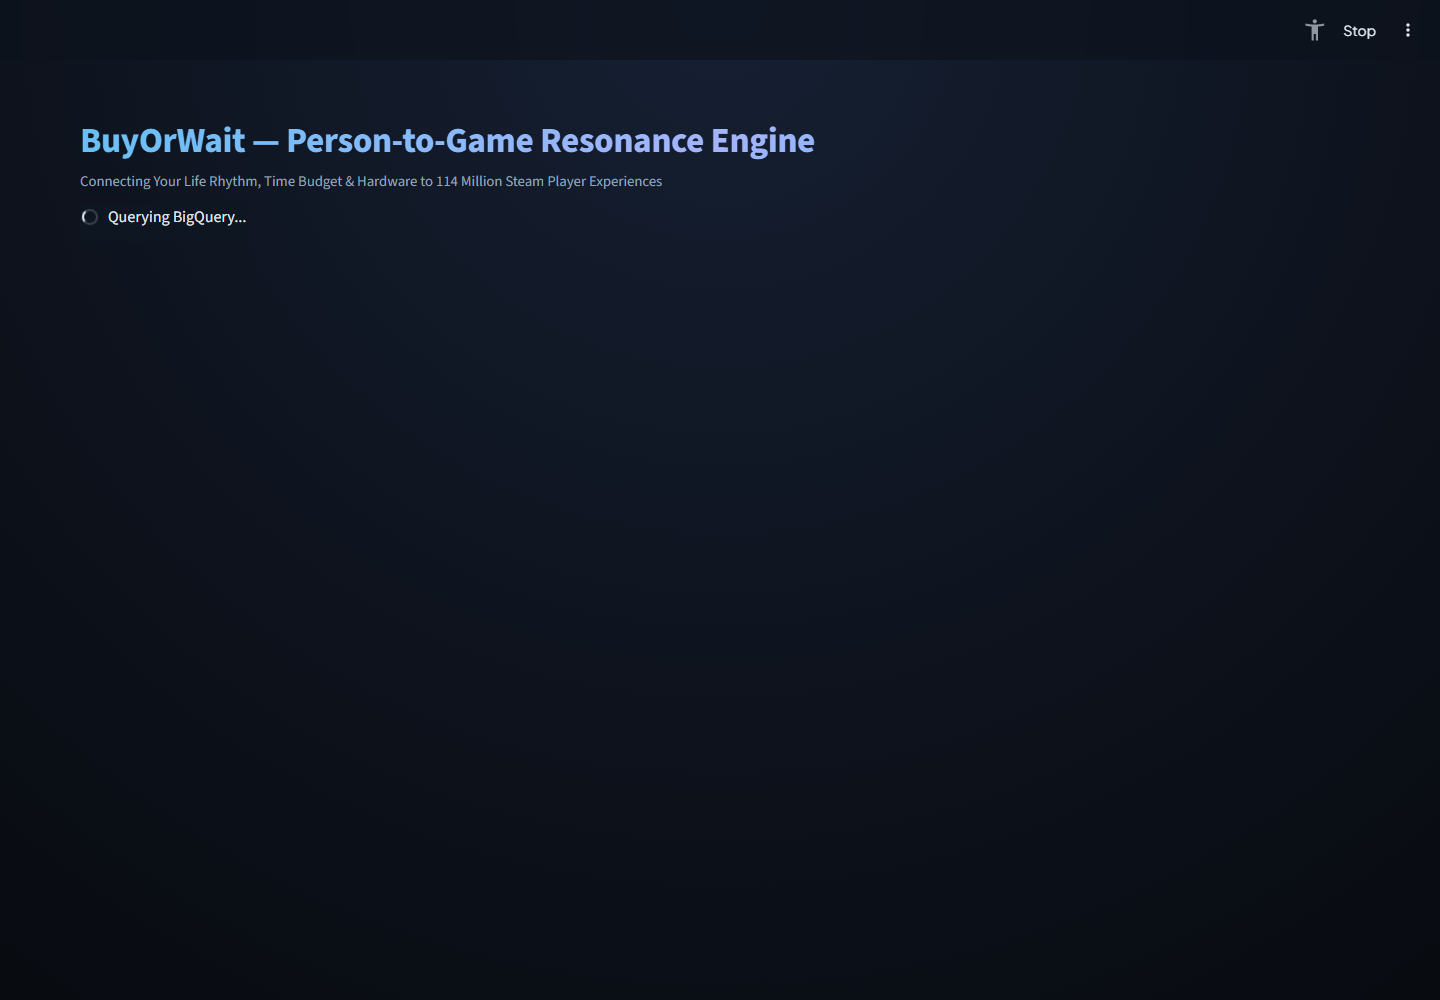
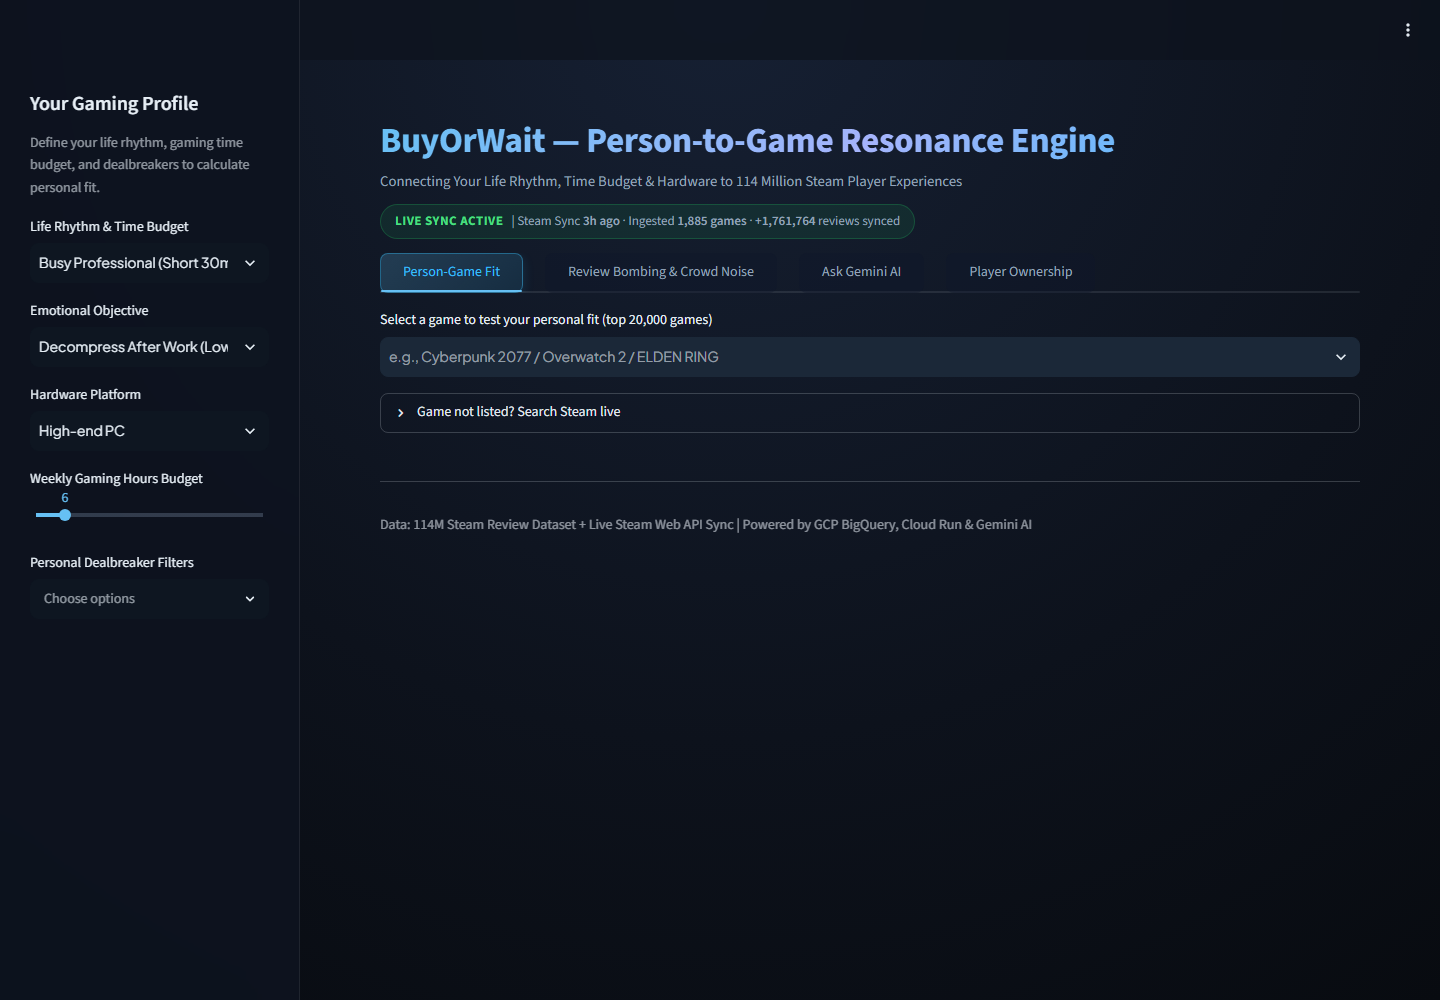
fix(ui): eliminate sidebar dropdown text truncation and harmonize selectbox labels

diff --git a/app/app.py b/app/app.py
@@ -116,6 +116,32 @@ header[data-testid="stHeader"] {
     border-right: 1px solid rgba(255, 255, 255, 0.08);
 }
 
+/* Fix Streamlit Selectbox and Multiselect Text Truncation & Popover Alignment */
+[data-testid="stSidebar"] div[data-baseweb="select"] {
+    border-radius: 8px;
+}
+[data-testid="stSidebar"] div[data-baseweb="select"] * {
+    white-space: normal !important;
+    word-wrap: break-word !important;
+    font-size: 13px !important;
+}
+
+/* Expand Dropdown Popover Menu Width to Avoid Horizontal Truncation */
+div[role="listbox"] {
+    min-width: 320px !important;
+    max-width: 420px !important;
+    background: #0f172a !important;
+    border: 1px solid rgba(56, 189, 248, 0.3) !important;
+    border-radius: 8px !important;
+    box-shadow: 0 10px 25px rgba(0,0,0,0.5) !important;
+}
+div[role="option"] {
+    white-space: normal !important;
+    word-wrap: break-word !important;
+    padding: 8px 12px !important;
+    font-size: 13px !important;
+}
+
 /* Streamlit Buttons */
 .stButton>button {
     border-radius: 8px;
@@ -280,13 +306,13 @@ def vsearch(appid: int, query: str, k: int = 20, polarity: bool | None = None) -
 
 
 RADAR_DIMS = {
-    "Monetization & In-Game Purchases": "microtransactions pay to win overpriced cash grab battle pass",
+    "Monetization & MTX": "microtransactions pay to win overpriced cash grab battle pass",
     "Low-End PC Performance": "fps drops stuttering lag poor optimization low end pc",
-    "Bugs & Technical Stability": "bugs crashes broken glitches corrupted save unplayable",
-    "Server & Online Connection": "servers down disconnect lag matchmaking dead online",
-    "Game Length & Content Shortage": "too short lacking content finished in a few hours",
-    "Repetitive Game Loop": "grindy repetitive boring farming time gated chores",
-    "Steam Deck & Controller Support": "steam deck controller support broken keyboard only",
+    "Bugs & Stability": "bugs crashes broken glitches corrupted save unplayable",
+    "Server & Disconnects": "servers down disconnect lag matchmaking dead online",
+    "Short Content": "too short lacking content finished in a few hours",
+    "Repetitive Grind": "grindy repetitive boring farming time gated chores",
+    "Steam Deck & Controller": "steam deck controller support broken keyboard only",
 }
 
 
@@ -343,15 +369,15 @@ with st.sidebar:
     st.caption("Define your life rhythm, gaming time budget, and dealbreakers to calculate personal fit.")
     
     my_rhythm = st.selectbox("Life Rhythm & Time Budget", [
-        "Busy Professional (Short 30m sessions)",
-        "Weekend Immersive Gamer (2-3h chunks)",
-        "Hardcore Binge Gamer (10+ hrs/week)"
+        "Busy (30m sessions)",
+        "Weekend (2-3h chunks)",
+        "Hardcore (10+ hrs/wk)"
     ], index=0)
     
     my_goal = st.selectbox("Emotional Objective", [
-        "Decompress After Work (Low Stress)",
-        "Seek Mastery & Challenge (Soulslike Flow)",
-        "Story & Narrative Immersion"
+        "Decompress (Low Stress)",
+        "Challenge (Soulslike)",
+        "Story & Narrative"
     ], index=0)
 
     my_device = st.selectbox("Hardware Platform", ["High-end PC", "Low-end PC", "Steam Deck"], index=0)
@@ -360,8 +386,8 @@ with st.sidebar:
     my_dims = st.multiselect("Personal Dealbreaker Filters", list(RADAR_DIMS), default=[])
     if my_device == "Low-end PC" and "Low-End PC Performance" not in my_dims:
         my_dims.append("Low-End PC Performance")
-    if my_device == "Steam Deck" and "Steam Deck & Controller Support" not in my_dims:
-        my_dims.append("Steam Deck & Controller Support")
+    if my_device == "Steam Deck" and "Steam Deck & Controller" not in my_dims:
+        my_dims.append("Steam Deck & Controller")
 
 tab_buy, tab_alert, tab_ask, tab_comp = st.tabs(
     ["Person-Game Fit", "Review Bombing & Crowd Noise", "Ask Gemini AI", "Player Ownership"])
